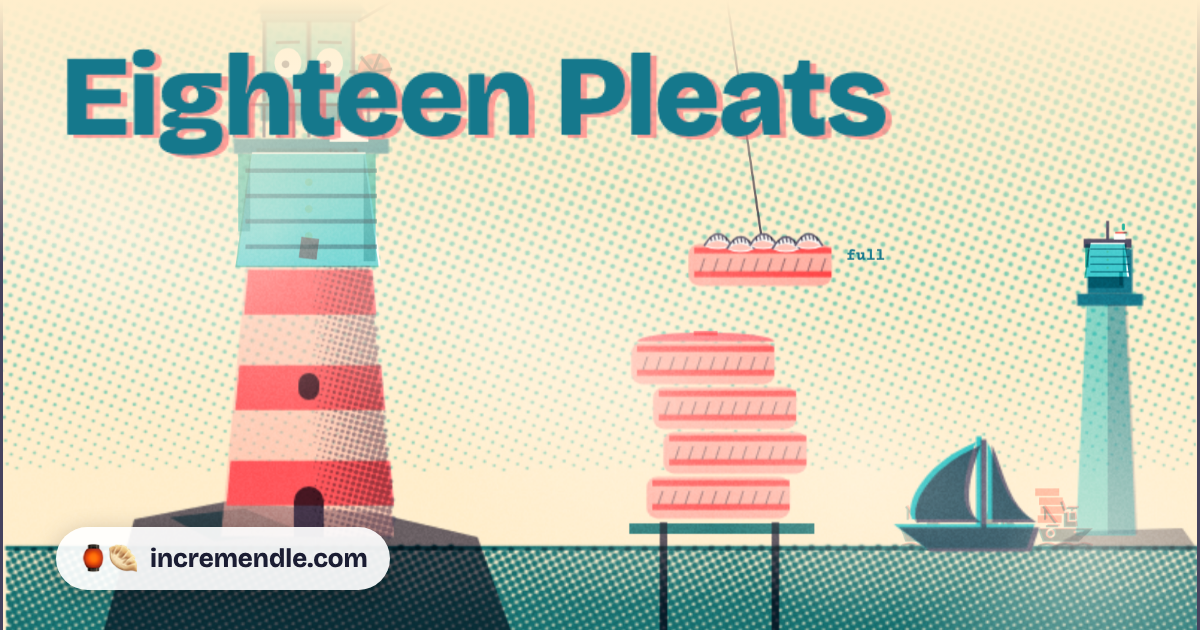
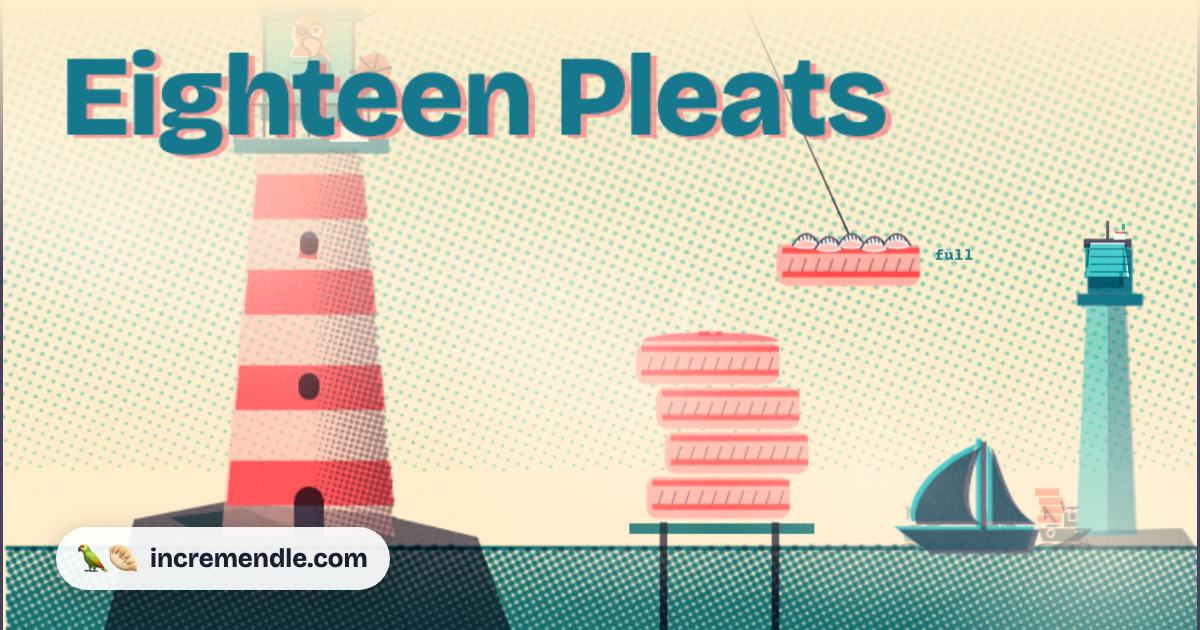
Eighteen Pleats: a retired pirate parrot keeps the lighthouse
Day 11 rolled "a nervous lighthouse", the subject day 7 used four days
earlier. The fixed roller picks "a retired pirate parrot" for the same
seed, so Barnacle now keeps Skerry Light: old sea legs replace the
trembling, and the cardigan and tricorn are Barnacle's. Same rules.

diff --git a/public/eighteen-pleats/index.html b/public/eighteen-pleats/index.html
@@ -4,16 +4,16 @@
 <meta charset="utf-8">
 <meta name="viewport" content="width=device-width, initial-scale=1, viewport-fit=cover">
 <title>Eighteen Pleats · Incremendle</title>
-<meta name="description" content="Fog season. A nervous lighthouse folds dumplings to Regulation 18 and stacks the steamers for every boat that follows the smell in. Incremendle.">
+<meta name="description" content="Fog season. A retired pirate parrot keeps the lighthouse, folds dumplings to Regulation 18 and stacks the steamers for every boat that follows the smell in. Incremendle.">
 <meta property="og:site_name" content="Incremendle">
 <meta property="og:type" content="website">
 <meta property="og:title" content="Eighteen Pleats">
-<meta property="og:description" content="Fog season. A nervous lighthouse folds dumplings to Regulation 18 and stacks the steamers for every boat that follows the smell in.">
+<meta property="og:description" content="Fog season. A retired pirate parrot keeps the lighthouse, folds dumplings to Regulation 18 and stacks the steamers for every boat that follows the smell in.">
 <meta property="og:url" content="https://incremendle.com/eighteen-pleats/">
-<meta property="og:image" content="https://incremendle.com/eighteen-pleats/og.png?v=ac27f0f3">
+<meta property="og:image" content="https://incremendle.com/eighteen-pleats/og.png?v=abfd7834">
 <meta property="og:image:width" content="1200">
 <meta property="og:image:height" content="630">
-<meta property="og:image:alt" content="Eighteen Pleats: Fog season. A nervous lighthouse folds dumplings to Regulation 18 and stacks the steamers for every boat that follows the smell in.">
+<meta property="og:image:alt" content="Eighteen Pleats: Fog season. A retired pirate parrot keeps the lighthouse, folds dumplings to Regulation 18 and stacks the steamers for every boat that follows the smell in.">
 <meta name="twitter:card" content="summary_large_image">
 <link rel="icon" href="/favicon.svg" type="image/svg+xml">
 <link rel="stylesheet" href="/shared/fonts/bricolage-grotesque/font.css">
@@ -162,13 +162,13 @@
         <div class="meter" title="The season's quota: dumplings served"><i id="meterFill"></i><span><em>Season quota</em><em id="quotaTxt">0 / 720</em></span></div>
         <div class="counts"><span><b id="chits">0</b> <small>chits</small></span></div>
         <div class="sub" id="sub">
-          <span class="nerves" title="How nervous the lighthouse is: it makes the basket and the stack tremble">Nerves <s id="nervesBar"></s></span>
+          <span class="nerves" title="Barnacle’s sea legs: forty years on a rolling deck, and the lighthouse won’t roll back. Barnacle works the winch, so the sway shakes the basket and the stack">Sea legs <s id="nervesBar"></s></span>
           <span id="rate"></span>
           <span id="epTxt" class="ep" hidden></span>
         </div>
       </div>
       <div class="board" id="board" aria-label="Boats waiting in the fog"></div>
-      <div class="stagewrap"><canvas id="stage" tabindex="0" aria-label="The gallery of Skerry Light: tap, click or press space to drop the swinging steamer basket onto the stack"></canvas></div>
+      <div class="stagewrap"><canvas id="stage" tabindex="0" aria-label="The gallery of Skerry Light, where Barnacle the parrot keeps the lamp: tap, click or press space to drop the swinging steamer basket onto the stack"></canvas></div>
       <p class="log" id="log" aria-live="polite"></p>
     </main>
     <aside id="side">
@@ -359,7 +359,13 @@ const artReady = Promise.all([
   iconSprite('game-icons--fishing-boat.svg', 110, 110, C.coral, C.teal).then(c => { ART.boats[0] = Sprites.register('trawler', c); }),
   iconSprite('game-icons--sailboat.svg', 100, 100, C.aqua, C.ink, true).then(c => { ART.boats[1] = Sprites.register('sloop', c); }),
 ]).catch(e => console.warn('art', e));
-if (Sprites.sheetRequested()) artReady.then(() => Sprites.showSheet({ zoom: 2 }));
+// Barnacle is drawn live (the crest and the eye move); this is a still for the sprite sheet.
+const parrotStill = artReady.then(() => {
+  const p = Sprites.canvas(60, 80), q = p.getContext('2d'), at = { ...L };
+  L.x = -55; L.y = -40; drawParrot(q, 0); Object.assign(L, at);
+  Sprites.register('Barnacle', p);
+});
+if (Sprites.sheetRequested()) parrotStill.then(() => Sprites.showSheet({ zoom: 2 }));
 
 // ---------- The stage ----------
 const cv = $('stage'), ctx = cv.getContext('2d');
@@ -431,13 +437,11 @@ function render() {
     if (ART.boats[b.id % 2]) x.drawImage(ART.boats[b.id % 2], bx - 10, SEA - 88 + bob, 110, 110);
     if (departing) drawStackAt(x, departing.stack, bx + 45, SEA - 34 + bob, 0.55, false);
   }
-  // The lighthouse, trembling.
-  x.save(); x.translate(shake * 0.3, 0);
+  // The lighthouse, and Barnacle in the lamp room, swaying on old sea legs.
   x.drawImage(ART.light, L.x, L.y);
-  drawFace(x);
+  drawParrot(x, shake);
   drawWheel(x);
   drawWorn(x, L.x + 85, L.y, 1, stillHere(), false);
-  x.restore();
   // The jib and the tray.
   ink(x, C.ink, q => { q.fillRect(L.x + 112, JIB - 3, scrX(1.4) - L.x - 112, 6); q.lineWidth = 2; q.beginPath(); q.moveTo(L.x + 118, JIB + 50); q.lineTo(L.x + 200, JIB + 2); q.stroke(); });
   ink(x, C.teal, q => q.fillRect(TRAY.x - 62, TRAY.y, 124, 7));
@@ -501,20 +505,52 @@ function drawHookBasket(x, h) {
     x.save(); x.font = '700 11px Courier Prime, monospace'; x.fillStyle = C.teal; x.textAlign = 'center'; x.fillText('full', h.x + BW / 2 + 22, h.y + 10); x.restore();
   }
 }
-// The face in the lamp room: two worried eyes that dart about, and blink.
-function drawFace(x) {
-  const cx = L.x + 85, cy = L.y + 92;
-  const calm = S.ended ? 1 : 1 - S.nerves;
-  if (blinkT < 0.12) { ink(x, C.ink, q => { q.fillRect(cx - 21, cy, 14, 2.5); q.fillRect(cx + 7, cy, 14, 2.5); }); return; }
-  const lx = S.ended ? 0 : Math.sin(look) * 3.5 * (1 - calm * 0.6), ly = S.ended ? -1 : Math.cos(look * 1.3) * 1.5;
-  for (const s of [-1, 1]) {
-    ink(x, '#ffffff', q => P(q, () => q.ellipse(cx + s * 14, cy, 9, S.ended ? 6 : 10, 0, 0, Math.PI * 2)));
-    ink(x, C.ink, q => P(q, () => q.arc(cx + s * 14 + lx, cy + ly, S.ended ? 3.4 : 2.6, 0, Math.PI * 2)));
-    // Worried brows, flat when calm.
-    ink(x, C.ink, q => { q.lineWidth = 2; q.beginPath(); q.moveTo(cx + s * 6, cy - 13 - (1 - calm) * 4); q.lineTo(cx + s * 22, cy - 14 + (1 - calm) * 2); q.stroke(); });
+// Barnacle, a retired pirate parrot, standing in the lamp room: one eye patch, one worried eye that
+// darts about and blinks, a crest that ruffles with the sway. Wears the cardigan and the tricorn.
+function drawParrot(x, shake) {
+  const calm = S.ended ? 1 : 1 - S.nerves, have = stillHere();
+  x.save(); x.translate(L.x + 85, L.y + 118); x.rotate(shake * 0.035); x.scale(1.1, 1.1);
+  // Paper under the inks, so Barnacle reads through the lamp-room glass.
+  ink(x, '#ffffff', q => { P(q, () => q.ellipse(0, -22, 13, 16, 0, 0, Math.PI * 2)); P(q, () => q.arc(0, -41, 11, 0, Math.PI * 2)); P(q, () => { q.moveTo(-6, -10); q.lineTo(6, -10); q.lineTo(10, 3); q.lineTo(-2, 3); q.closePath(); }); });
+  // Tail, then body, then wing.
+  ink(x, C.teal, q => P(q, () => { q.moveTo(-5, -10); q.lineTo(5, -10); q.lineTo(9, 2); q.lineTo(-1, 2); q.closePath(); }));
+  ink(x, C.coral, q => P(q, () => q.ellipse(0, -22, 12, 15, 0, 0, Math.PI * 2)));
+  if (have.cardigan) {
+    const cardi = q => { q.moveTo(-12, -28); q.lineTo(12, -28); q.lineTo(12, -12); q.quadraticCurveTo(0, -5, -12, -12); q.closePath(); };
+    ink(x, '#ffffff', q => P(q, () => cardi(q)));
+    ink(x, C.aqua, q => P(q, () => cardi(q)), 0.85);
+    ink(x, C.teal, q => { for (let i = 0; i < 2; i++) q.fillRect(-12, -25 + i * 7, 24, 1.6); }, 0.7);
+    ink(x, C.paper, q => { for (let i = 0; i < 2; i++) P(q, () => q.arc(0, -24 + i * 7, 1.6, 0, Math.PI * 2)); });
   }
-  if (S.ended) ink(x, C.ink, q => { q.lineWidth = 2; q.beginPath(); q.arc(cx, cy + 9, 6, 0.2, Math.PI - 0.2); q.stroke(); });
-  else ink(x, C.ink, q => { q.lineWidth = 2; q.beginPath(); q.moveTo(cx - 6, cy + 14); for (let i = 1; i <= 4; i++) q.lineTo(cx - 6 + i * 3, cy + 14 + (i % 2 ? -1.5 : 1.5)); q.stroke(); });
+  ink(x, C.teal, q => P(q, () => q.ellipse(7, -20, 5, 10, -0.25, 0, Math.PI * 2)));
+  // Feet on the lamp-room floor.
+  ink(x, C.ink, q => { q.lineWidth = 2; q.beginPath(); q.moveTo(-4, -8); q.lineTo(-5, 0); q.moveTo(4, -8); q.lineTo(5, 0); q.stroke(); });
+  // Head.
+  ink(x, C.coral, q => P(q, () => q.arc(0, -41, 10, 0, Math.PI * 2)));
+  // Crest: flat when calm, standing up when ruffled.
+  const up = S.ended ? 0.2 : 0.3 + (1 - calm) * 1.2;
+  ink(x, C.coral, q => { q.lineWidth = 2.5; q.lineCap = 'round'; q.beginPath(); for (const d of [-1, 0, 1]) { const a = -Math.PI / 2 + d * 0.45 * up; q.moveTo(d * 3, -49); q.lineTo(d * 3 + Math.cos(a) * (4 + 6 * up), -49 + Math.sin(a) * (4 + 6 * up)); } q.stroke(); });
+  if (have.hat) {
+    const tri = q => { q.moveTo(-15, -47); q.quadraticCurveTo(-6, -50, -4, -60); q.quadraticCurveTo(0, -56, 4, -60); q.quadraticCurveTo(6, -50, 15, -47); q.quadraticCurveTo(0, -51, -15, -47); q.closePath(); };
+    ink(x, '#ffffff', q => P(q, () => tri(q)));
+    ink(x, C.ink, q => P(q, () => tri(q)));
+    ink(x, '#ffffff', q => P(q, () => q.arc(0, -53, 1.6, 0, Math.PI * 2)));
+  }
+  // The eye patch, and its strap.
+  ink(x, C.ink, q => { P(q, () => q.ellipse(-4.5, -43, 3.8, 3.4, 0, 0, Math.PI * 2)); q.lineWidth = 1.2; q.beginPath(); q.moveTo(-10, -48); q.lineTo(6, -36); q.stroke(); });
+  // The good eye.
+  const lx = S.ended ? 0 : Math.sin(look) * 1.4 * (1 - calm * 0.6), ly = S.ended ? -0.5 : Math.cos(look * 1.3) * 0.8;
+  if (blinkT < 0.12 || S.ended) ink(x, C.ink, q => { q.lineWidth = 1.6; q.beginPath(); if (S.ended) q.arc(4.5, -42, 2.6, Math.PI + 0.3, -0.3); else { q.moveTo(1.5, -43); q.lineTo(7.5, -43); } q.stroke(); });
+  else {
+    ink(x, '#ffffff', q => P(q, () => q.arc(4.5, -43, 4.4, 0, Math.PI * 2)));
+    ink(x, C.ink, q => { q.lineWidth = 1; q.beginPath(); q.arc(4.5, -43, 4.4, 0, Math.PI * 2); q.stroke(); P(q, () => q.arc(4.5 + lx, -43 + ly, 2, 0, Math.PI * 2)); q.lineWidth = 1.5; q.beginPath(); q.moveTo(1, -48 - (1 - calm) * 2); q.lineTo(8, -48 + (1 - calm) * 1.5); q.stroke(); });
+  }
+  // The beak: a big peach hook, on paper so it doesn't sink into the coral.
+  const beak = q => { q.moveTo(-4, -38); q.quadraticCurveTo(3, -41, 7, -36); q.quadraticCurveTo(7, -28, 0, -26); q.quadraticCurveTo(2, -32, -4, -33); q.closePath(); };
+  ink(x, '#ffffff', q => P(q, () => beak(q)));
+  ink(x, C.peach, q => P(q, () => beak(q)));
+  ink(x, C.ink, q => { q.lineWidth = 1.4; q.beginPath(); beak(q); q.stroke(); });
+  x.restore();
 }
 // The pleating wheel, geared to the lamp clockwork: it turns as fast as the pleats.
 function drawWheel(x) {
@@ -523,18 +559,19 @@ function drawWheel(x) {
   ink(x, C.coral, q => { P(q, () => q.arc(cx, cy, 11, 0, Math.PI * 2)); });
   ink(x, C.ink, q => { q.lineWidth = 2; q.beginPath(); for (let i = 0; i < 6; i++) { const b = a + i * Math.PI / 3; q.moveTo(cx, cy); q.lineTo(cx + Math.cos(b) * 13, cy + Math.sin(b) * 13); } q.stroke(); q.fillRect(L.x + 112, cy - 1, 6, 2); });
 }
-// The things the lighthouse has (or Eastpoint has copied), drawn on the tower. m = centre x, top = sprite top.
+// The things Skerry Light has (or Eastpoint has copied), drawn on the tower. Barnacle wears the cardigan
+// and the hat; Eastpoint, having no keeper, puts its copies on the tower. m = centre x, top = sprite top.
 function drawWorn(x, m, top, s, have, copy) {
   const o = (dx, dy) => [m + dx * s, top + dy * s];
-  if (have.cardigan) {
+  if (have.cardigan && copy) {
     ink(x, '#ffffff', q => { const [a, b] = o(-38, 152), [c2, d] = o(38, 152); P(q, () => { q.moveTo(a, b); q.lineTo(c2, d); q.lineTo(m + 48 * s, top + 228 * s); q.lineTo(m - 48 * s, top + 228 * s); q.closePath(); }); });
     ink(x, C.aqua, q => { const [a, b] = o(-38, 152), [c2, d] = o(38, 152); P(q, () => { q.moveTo(a, b); q.lineTo(c2, d); q.lineTo(m + 48 * s, top + 228 * s); q.lineTo(m - 48 * s, top + 228 * s); q.closePath(); }); }, 0.75);
     ink(x, C.teal, q => { for (let i = 0; i < 4; i++) q.fillRect(m - 44 * s, top + (162 + i * 17) * s, 88 * s, 3 * s); }, 0.8);
     ink(x, C.paper, q => { for (let i = 0; i < 3; i++) P(q, () => q.arc(m, top + (172 + i * 18) * s, 2.6 * s, 0, Math.PI * 2)); });
-    // One sleeve is longer (Eastpoint's has three).
+    // Eastpoint's copy: one sleeve longer, and a third sleeve.
     ink(x, C.aqua, q => { q.fillRect(m + 38 * s, top + 152 * s, 8 * s, (copy ? 60 : 72) * s); q.fillRect(m - 46 * s, top + 152 * s, 8 * s, 52 * s); if (copy) q.fillRect(m + 30 * s, top + 214 * s, 8 * s, 30 * s); }, 0.85);
   }
-  if (have.hat) ink(x, C.coral, q => { const [a, b] = o(0, 4); q.fillRect(a - 18 * s * (copy ? 0.7 : 1), b, 36 * s * (copy ? 0.7 : 1), 4 * s); q.fillRect(a - 9 * s * (copy ? 0.7 : 1), b - 14 * s, 18 * s * (copy ? 0.7 : 1), 14 * s); });
+  if (have.hat && copy) ink(x, C.coral, q => { const [a, b] = o(0, 4); q.fillRect(a - 18 * s * (copy ? 0.7 : 1), b, 36 * s * (copy ? 0.7 : 1), 4 * s); q.fillRect(a - 9 * s * (copy ? 0.7 : 1), b - 14 * s, 18 * s * (copy ? 0.7 : 1), 14 * s); });
   if (have.badge) {
     ink(x, '#ffffff', q => { const [a, b] = o(14, 132); q.fillRect(a, b, 26 * s, 13 * s); });
     ink(x, C.coral, q => { const [a, b] = o(14, 132); q.fillRect(a, b, 26 * s, 4 * s); });
@@ -646,7 +683,7 @@ function afterDrop(r, h, was, dx) {
     for (let i = 0; i < Math.min(r.toppled, 10); i++) drops.push({ x: TRAY.x + (Math.random() - 0.5) * 60, y: TRAY.y - i * 26, vy: -60 * Math.random(), r: 0, vr: (Math.random() - 0.5) * 5 });
     gullsFly.push({ x: 820, y: 200, tx: TRAY.x, ty: SEA - 10, t: 0 });
     float(TRAY.x, TRAY.y - 120, `the stack went over (${r.lost} lost)`, C.coral, true);
-    say('INCIDENT', [`Stack of ${r.toppled} has gone over. ${r.lost} dumplings to the gulls. Form 7 filed. The lighthouse is fine. The lighthouse is not fine.`,
+    say('INCIDENT', [`Stack of ${r.toppled} has gone over. ${r.lost} dumplings to the gulls. Form 7 filed. Barnacle is fine. Barnacle is not fine.`,
       `Stack exceeded permitted lean. ${r.lost} dumplings in the sea. The gulls have sent a thank-you card.`][S.topples % 2]);
   } else if (r.landed) {
     sfx.tok(was);
@@ -667,7 +704,7 @@ function dropCrateNow() {
     baskets: 'The steamer baskets. Every one of them.',
     cardigan: 'The cardigan. Eastpoint already has one with three sleeves. Now it has two cardigans.',
     radio: 'The radio, still on the shipping forecast.',
-    chamomile: 'The chamomile. Eastpoint does not have nerves. It may develop some.',
+    chamomile: 'The chamomile. Eastpoint does not have sea legs. It may develop some.',
     gull: 'The gulls, who go on the payroll at Eastpoint at the same rate (rejected dumplings).',
     frame: 'The framed Regulation 18. Still crooked.',
     hat: 'The little hat. Eastpoint’s was smaller anyway.',
@@ -715,8 +752,10 @@ const AMBIENT = [
   ['LOG', 'A boat has followed the smell in. It always does.'],
   ['REG. 18', 'Reminder: eighteen pleats. Not seventeen. Not nineteen. Eighteen.'],
   ['LOG', 'The lamp is turning. Nobody can see it. It is turning anyway.'],
-  ['MEMO', 'Lighthouses are reminded that trembling is not a recognised form of signalling.'],
+  ['MEMO', 'Keepers are reminded that swaying is not a recognised form of signalling.'],
   ['LOG', 'Fog, thick. Dumplings, adequate.'],
+  ['LOG', 'Barnacle says this is nothing next to the Horn in ’71. Barnacle says that about most fog.'],
+  ['MEMO', 'Keepers are reminded that “Pieces of eight” is not a pleat count.'],
 ];
 function ambient() {
   logT += 0.25;
@@ -966,7 +1005,7 @@ function end(resumed) {
   S.ended = true; S.final = S.final ? { ...S.final, done: true } : null; save();
   finaleAnim = null;
   $('ending').hidden = false;
-  $('endText').textContent = `The whole kitchen went across the bay: the clockwork, the baskets${E.has(S, 'cardigan') ? ', the cardigan' : ''}${E.lvl(S, 'gull') ? ', the gulls' : ''}. Eastpoint steamed its first batch at nine. One dumpling came undone in the steamer: seventeen pleats. The skipper of the Adequate ate it anyway and said it tasted the same. Skerry Light stopped trembling, turned its lamp back on, and about ten o'clock the fog lifted.`;
+  $('endText').textContent = `The whole kitchen went across the bay: the clockwork, the baskets${E.has(S, 'cardigan') ? ', the cardigan' : ''}${E.lvl(S, 'gull') ? ', the gulls' : ''}. Eastpoint steamed its first batch at nine. One dumpling came undone in the steamer: seventeen pleats. The skipper of the Adequate ate it anyway and said it tasted the same. Barnacle stopped swaying, turned the lamp back on, and about ten o'clock the fog lifted.`;
   $('endMemo').textContent = `HARBOUR BOARD · Re: Form 18-B${E.has(S, 'form18b') ? '' : ' (not filed)'}. Regulation 18 is struck. Nobody else was counting. Dumplings may be folded however they come out.` + (S.served ? ` Season total: ${fmt(S.served)} dumplings served to ${S.delivered} boats, ${S.perfects} perfect drops. Eastpoint fed ${fmt(S.epServed)}.` : '');
   if (!resumed) {
     sfx.finale();
@@ -1001,8 +1040,8 @@ function handle(ev) {
       departing = { b: { id: d.boat.length, ...d }, stack: Array.from({ length: Math.min(6, Math.ceil(d.delivered / E.stats(S).cap)) }, () => ({ x: 0 })), t: 0 };
       float(645, SEA - 120, `+${d.pay} chits`, C.coral, true);
       say(d.kind === 'lifeboat' ? 'LIFEBOAT' : 'LOG', d.slosh ? `${d.delivered} soup dumplings to the ${d.boat}. The stack leaned; the soup sloshed. Paid half: ${d.pay} chits.` : `${d.delivered} dumplings delivered to the ${d.boat}. ${d.pay} chits, signed for. The boat turns for harbour, following its nose.`);
-    } else if (e.expired) { sfx.gone(); say('INCIDENT', `The ${e.expired.boat} sailed before its stack was ready.${S.ep ? ' Eastpoint fed it instead.' : ''} Form 7 filed. Nerves noted.`); }
-    else if (e.gone) { sfx.gone(); if (Math.random() < 0.6) say(S.ep ? 'EASTPOINT' : 'LOG', S.ep ? `The ${e.gone.boat} got tired of waiting. Eastpoint fed it. Eastpoint would like that noted.` : `The ${e.gone.boat} drifted off into the fog, unfed. The lighthouse feels awful about it.`); }
+    } else if (e.expired) { sfx.gone(); say('INCIDENT', `The ${e.expired.boat} sailed before its stack was ready.${S.ep ? ' Eastpoint fed it instead.' : ''} Form 7 filed. Sea legs noted.`); }
+    else if (e.gone) { sfx.gone(); if (Math.random() < 0.6) say(S.ep ? 'EASTPOINT' : 'LOG', S.ep ? `The ${e.gone.boat} got tired of waiting. Eastpoint fed it. Eastpoint would like that noted.` : `The ${e.gone.boat} drifted off into the fog, unfed. Barnacle takes it personally.`); }
     else if (e.slip) sfx.slip();
     else if (e.eastpoint) {
       sfx.eastpoint();
@@ -1061,8 +1100,8 @@ if (S.ended) end(true);
 else if (S.final) {
   if (S.final.done) startHandoverAnim();
   say('FORM 99', 'Welcome back. The handover is in progress: keep stacking the crates for Eastpoint’s tender.');
-} else if (!S.t) say('LOG', 'Fog season. The beam can’t reach the boats, but the smell of dumplings can. The basket is filling: tap to drop it on the stack.');
-else say('LOG', 'Welcome back to Skerry Light. The fog is still in. The boats are still hungry.');
+} else if (!S.t) say('LOG', 'Fog season. The beam can’t reach the boats, but the smell of dumplings can, and Barnacle has not missed a ship in forty years. The basket is filling: tap to drop it on the stack.');
+else say('LOG', 'Welcome back to Skerry Light. The fog is still in. The boats are still hungry. Barnacle has kept the kettle warm.');
 hud(); renderBoard(); renderShop();
 document.fonts?.ready.then(layout);
 requestAnimationFrame(frame);
